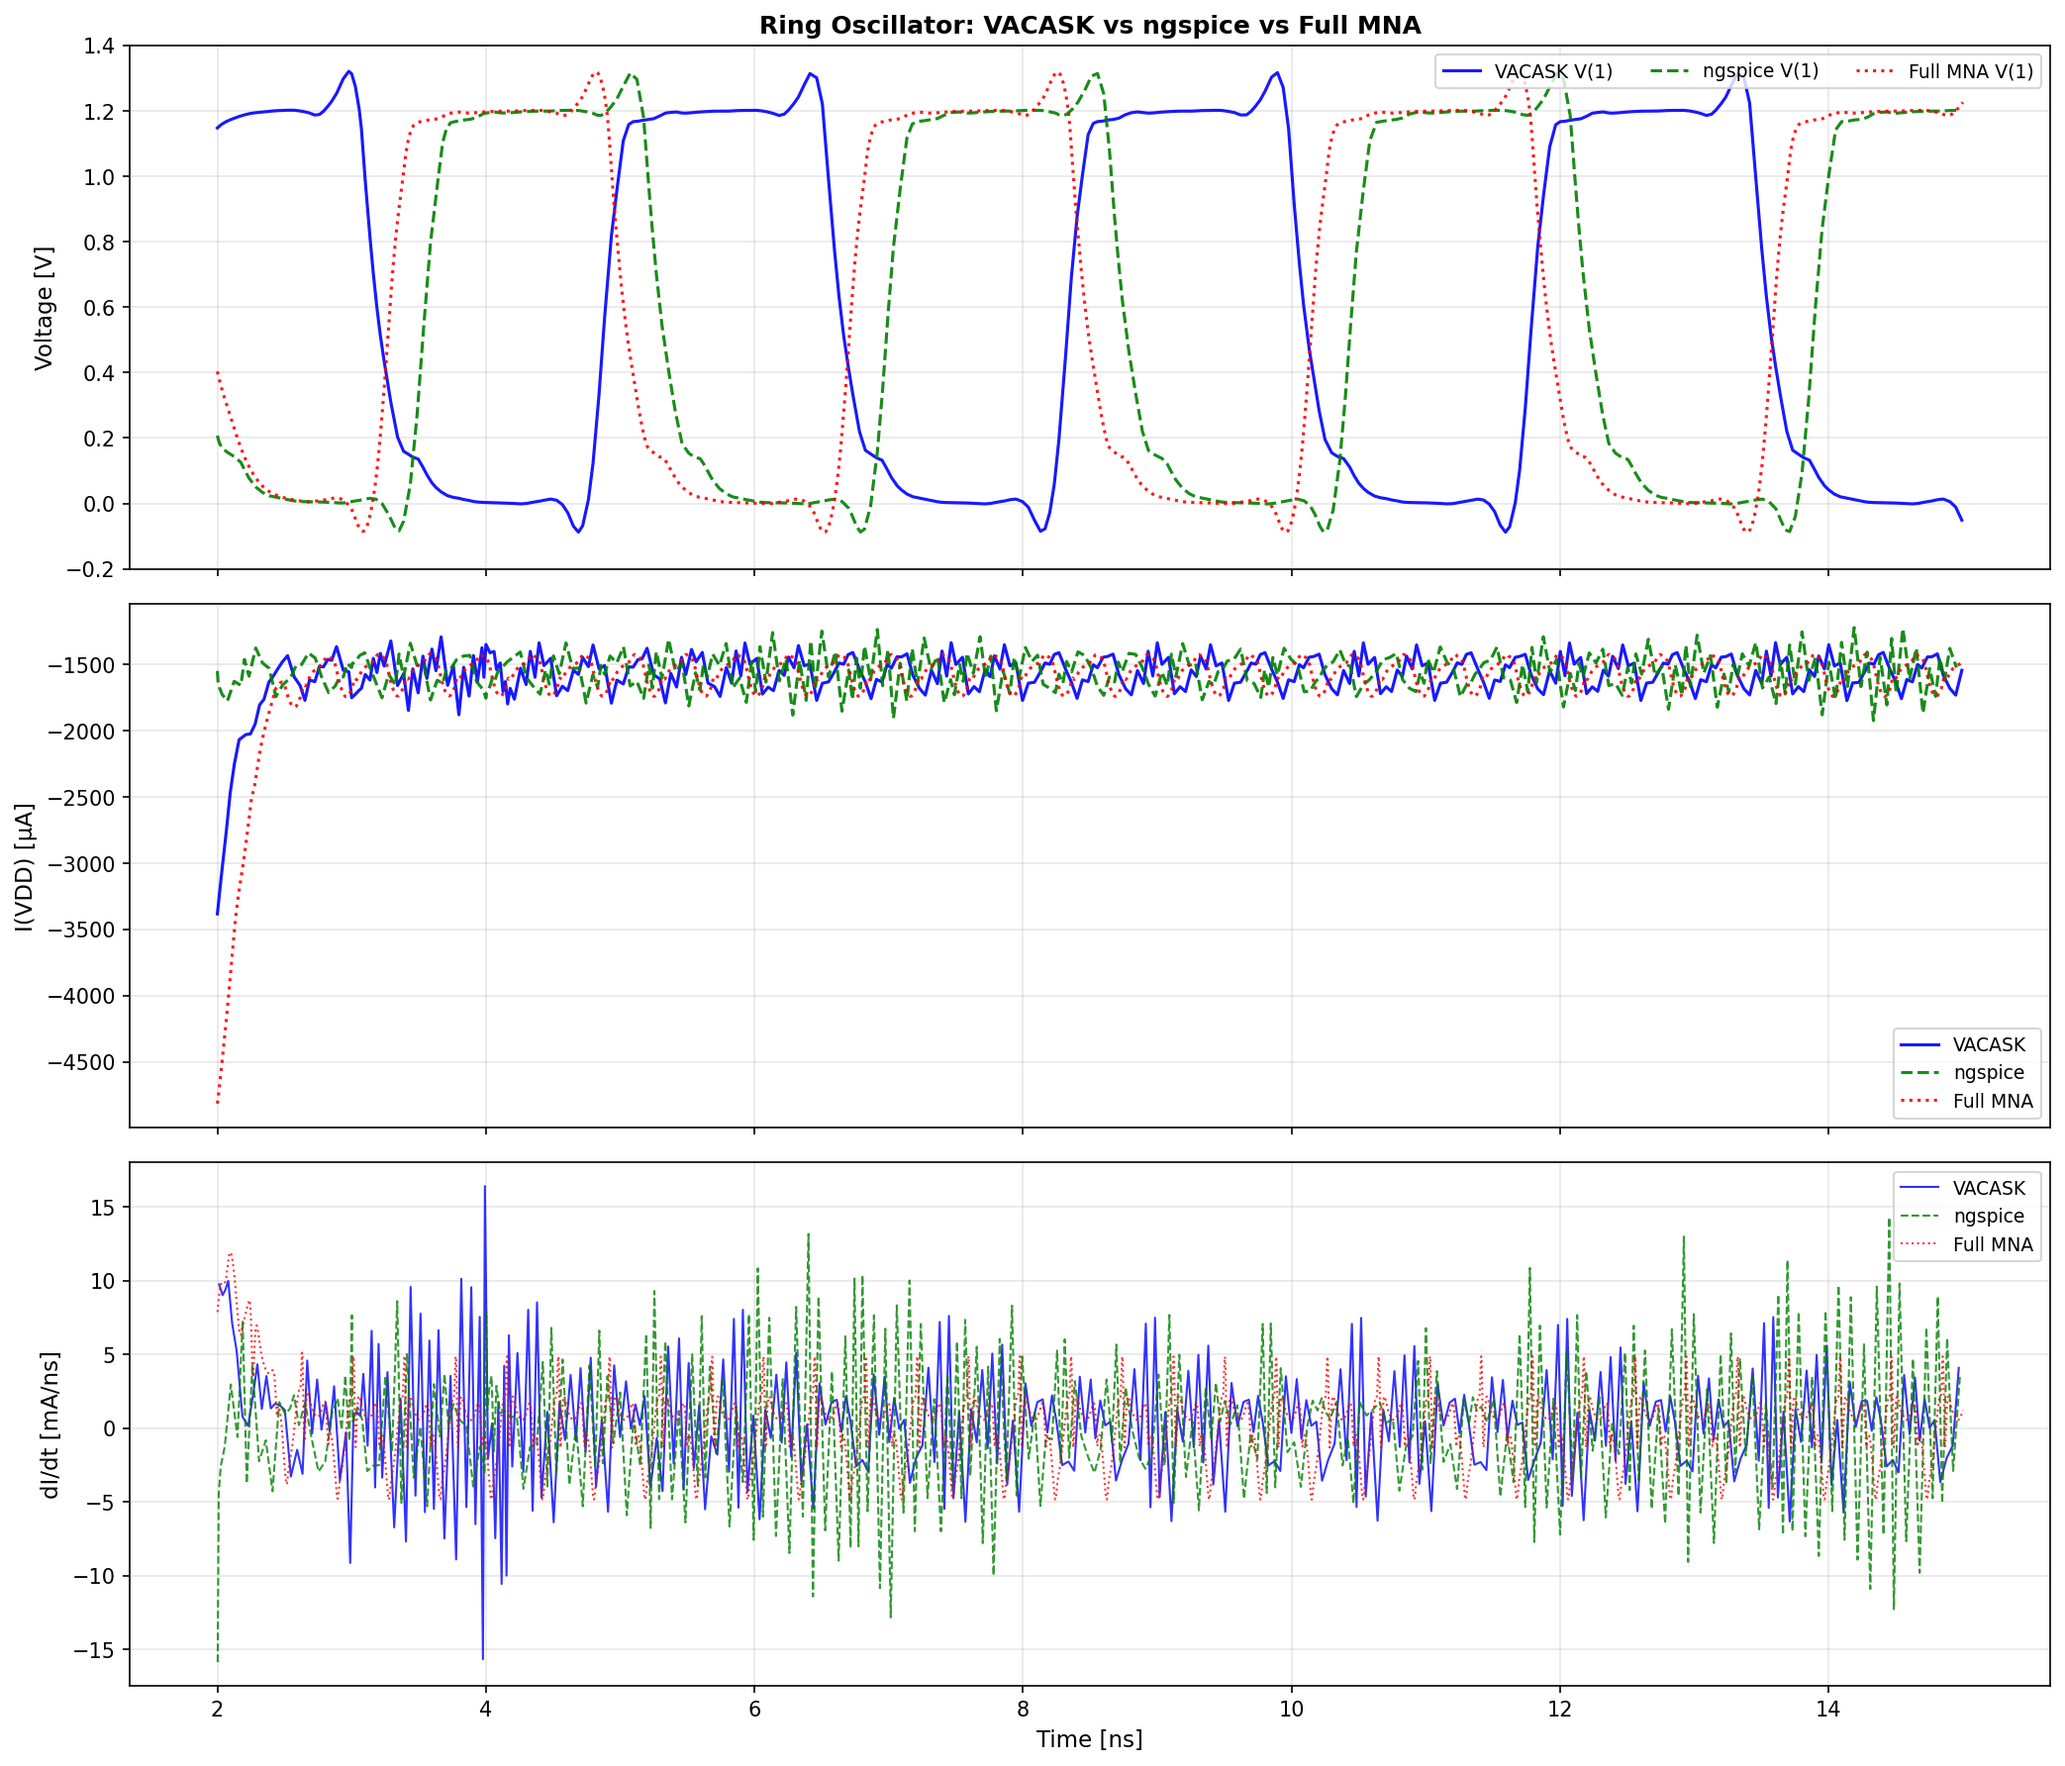
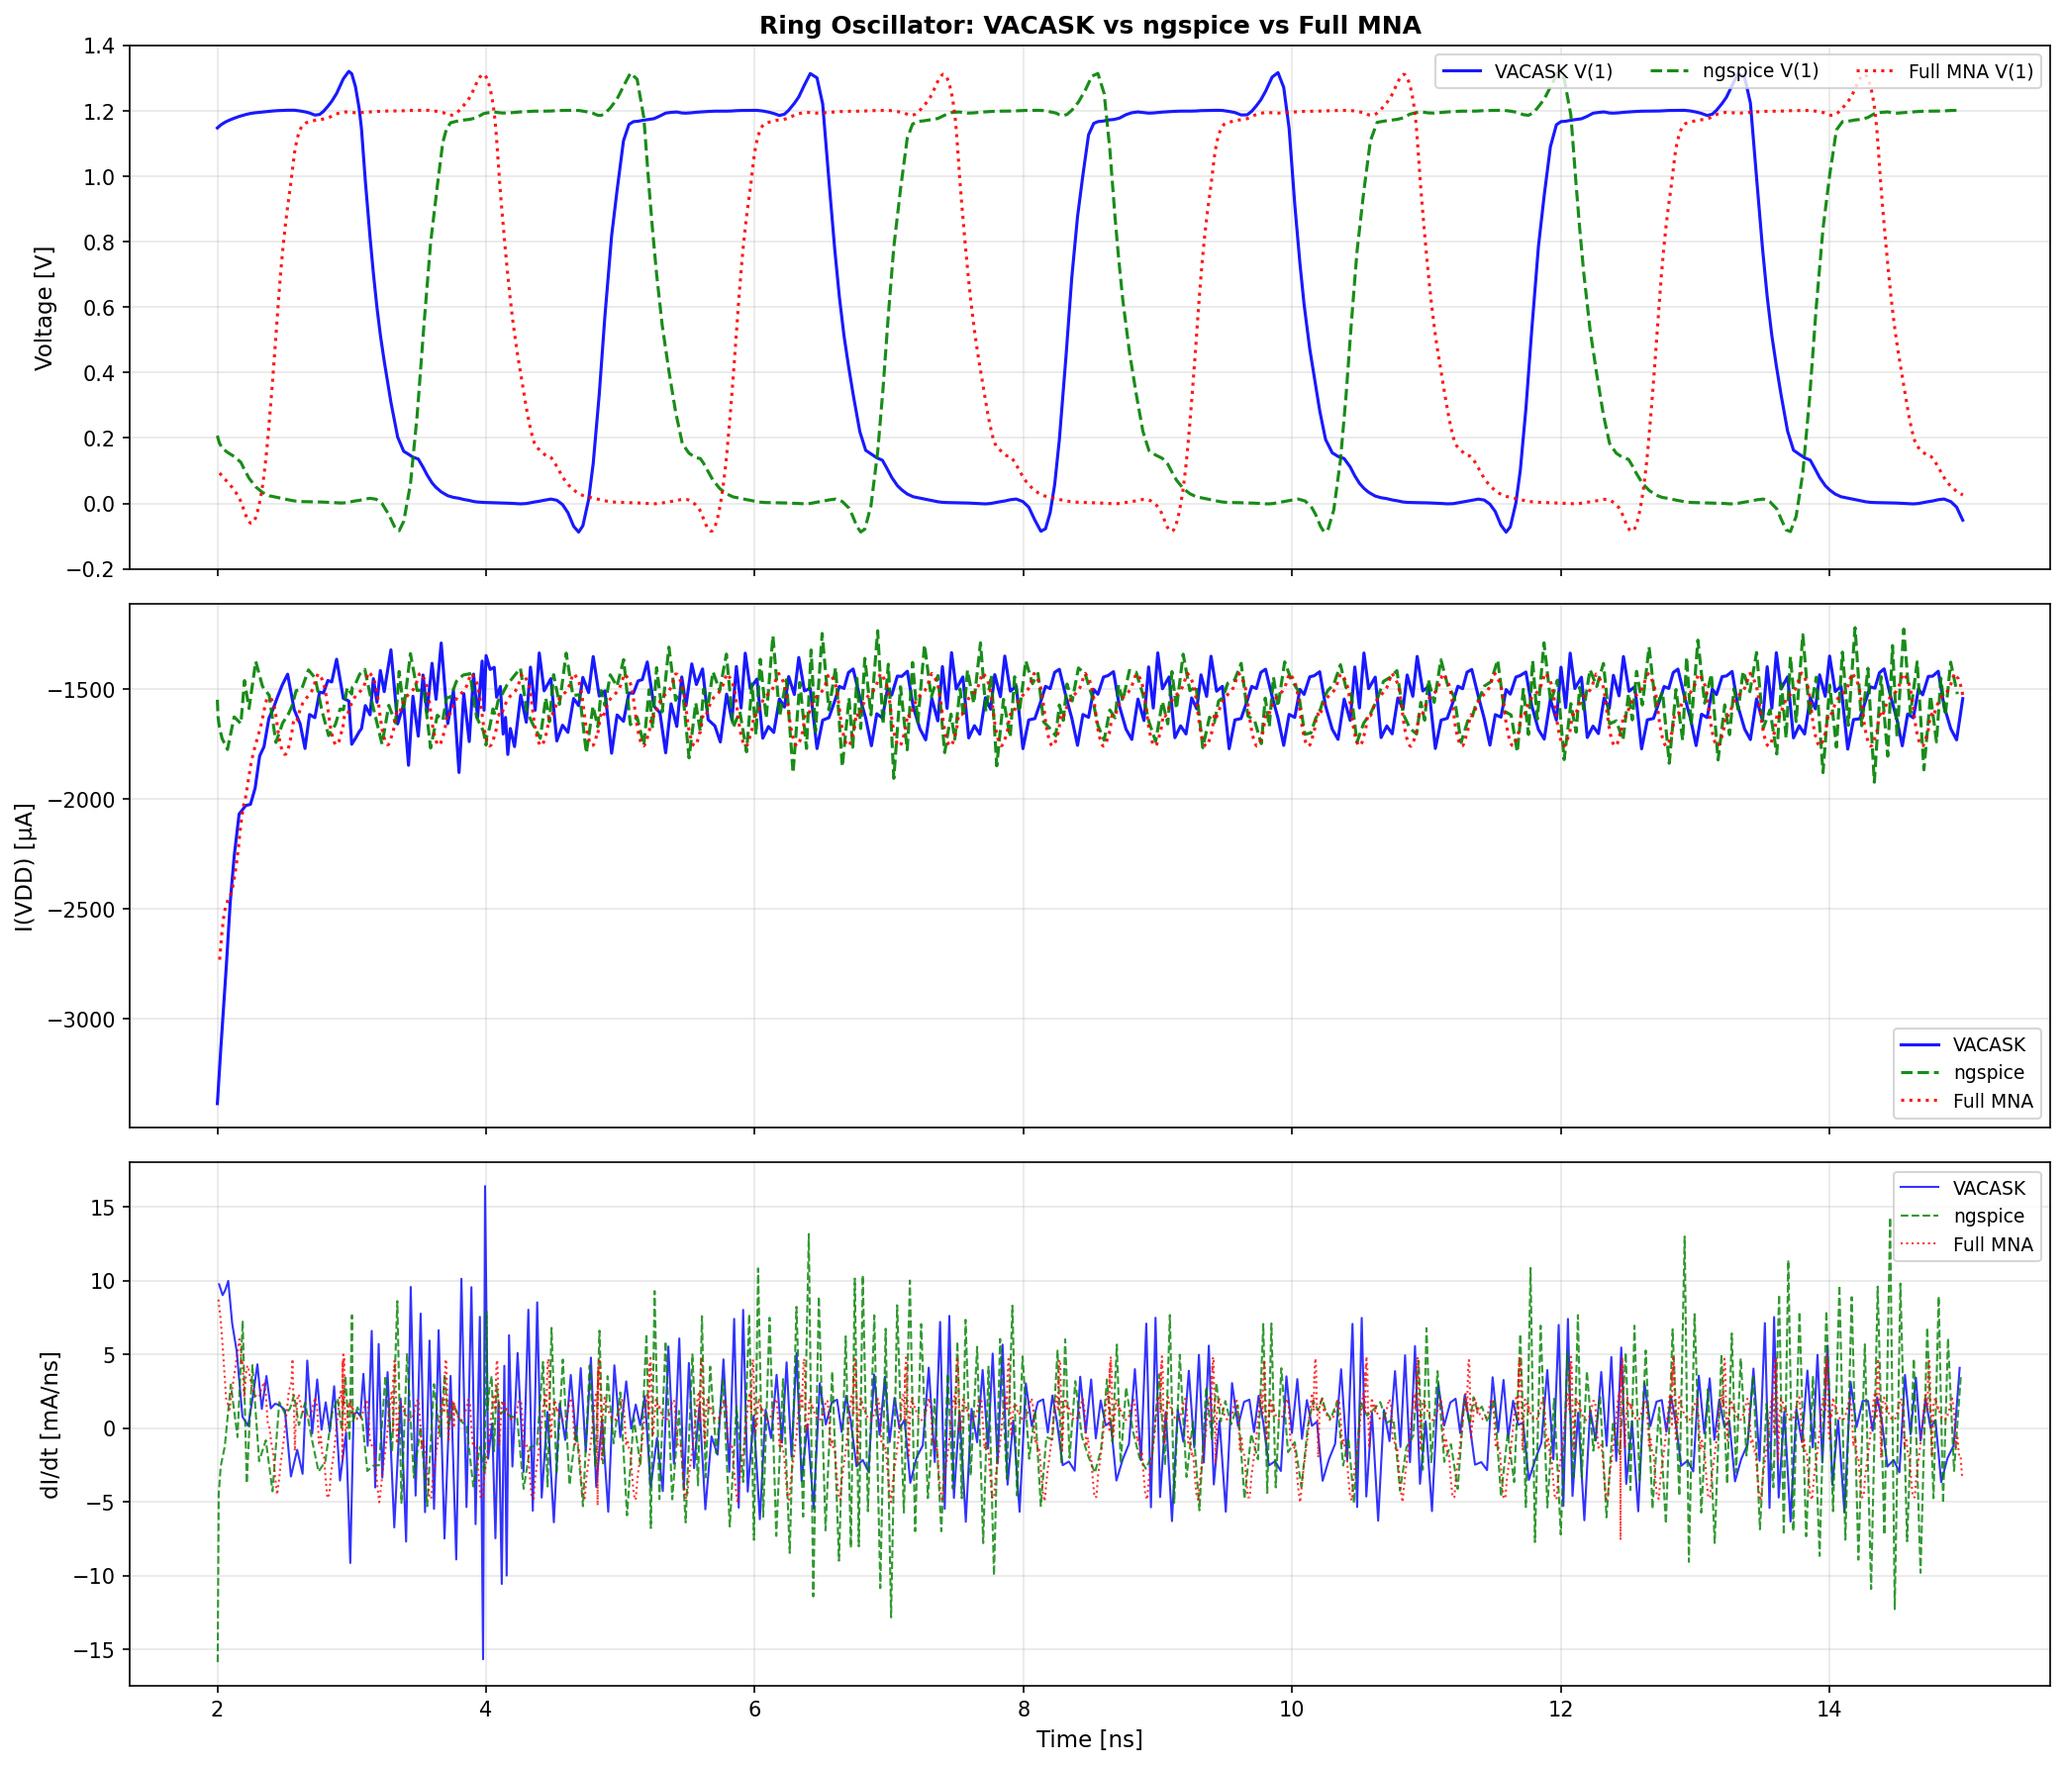
Add warmup() method and improve logging in scripts
- Add warmup() method to FullMNAStrategy for explicit JIT pre-compilation
- Add DEFAULT_MAX_STEPS constant (10000)
- Switch plot_three_way_comparison.py to use logger instead of print
- Add explicit warmup call before timed simulation
- Update ring_three_way_comparison.png with latest results

Co-developed-by: Claude Code v2.1.19 (claude-opus-4-5-20250101)

diff --git a/scripts/plot_three_way_comparison.py b/scripts/plot_three_way_comparison.py
@@ -12,6 +12,8 @@ import matplotlib.pyplot as plt
 
 from jax_spice.analysis.engine import CircuitEngine
 from jax_spice.analysis.transient import AdaptiveConfig, FullMNAStrategy
+from jax_spice._logging import logger, enable_performance_logging
+enable_performance_logging()
 
 
 def read_spice_raw(filename):
@@ -71,26 +73,31 @@ def main():
     vacask_raw = 'vendor/VACASK/tran1.raw'
     ngspice_data_file = 'vendor/VACASK/benchmark/ring/ngspice/ring_with_current.txt'
 
-    print("Loading VACASK data...")
+    logger.info("Loading VACASK data...")
     vacask = read_spice_raw(vacask_raw)
     t_vac = vacask['time']
     V1_vac = vacask['1']
     V2_vac = vacask['2']
     I_vac = vacask.get('vdd:flow(br)')
 
-    print("Loading ngspice data...")
+    logger.info("Loading ngspice data...")
     ng = read_ngspice_wrdata(ngspice_data_file)
     t_ng = ng['time']
     V1_ng = ng['1']
     V2_ng = ng['2']
     I_ng = ng['i_vdd']
 
-    print("Running Full MNA (20ns)...")
+    logger.info("Preparing Full MNA (20ns)...")
     runner = CircuitEngine(ring_sim)
     runner.parse()
     # max_dt must be less than oscillation period (~3.5ns) to capture dynamics
     config = AdaptiveConfig(max_dt=50e-12, min_dt=1e-15)
     full_mna = FullMNAStrategy(runner, use_sparse=False, config=config)
+
+    logger.info("Running warmup..") 
+    _  = full_mna.warmup(dt=1e-12)
+
+    logger.info("Running Full MNA (20ns)...")
     times_mna, voltages_mna, stats_mna = full_mna.run(t_stop=20e-9, dt=1e-12)
 
     t_mna = np.asarray(times_mna)
@@ -162,27 +169,27 @@ def main():
     plt.tight_layout()
     output_file = 'ring_three_way_comparison.png'
     plt.savefig(output_file, dpi=150, bbox_inches='tight')
-    print(f"Saved: {output_file}")
+    logger.info(f"Saved: {output_file}")
 
     # Metrics
-    print("\n" + "=" * 70)
-    print("Comparison Metrics (2-15ns window):")
-    print("=" * 70)
+    logger.info("\n" + "=" * 70)
+    logger.info("Comparison Metrics (2-15ns window):")
+    logger.info("=" * 70)
 
     t_common = np.linspace(t_start, t_end, 2000)
     I_vac_i = np.interp(t_common, t_vac, I_vac)
     I_ng_i = np.interp(t_common, t_ng, I_ng)
     I_mna_i = np.interp(t_common, t_mna, I_mna)
 
-    print(f"\nMean current:")
-    print(f"  VACASK:   {I_vac_i.mean()*1e6:.1f} µA")
-    print(f"  ngspice:  {I_ng_i.mean()*1e6:.1f} µA")
-    print(f"  Full MNA: {I_mna_i.mean()*1e6:.1f} µA")
+    logger.info(f"\nMean current:")
+    logger.info(f"  VACASK:   {I_vac_i.mean()*1e6:.1f} µA")
+    logger.info(f"  ngspice:  {I_ng_i.mean()*1e6:.1f} µA")
+    logger.info(f"  Full MNA: {I_mna_i.mean()*1e6:.1f} µA")
 
-    print(f"\nMax |dI/dt|:")
-    print(f"  VACASK:   {np.max(np.abs(dIdt_vac[mask_didt_vac]))*1e-6:.2f} mA/ns")
-    print(f"  ngspice:  {np.max(np.abs(dIdt_ng[mask_didt_ng]))*1e-6:.2f} mA/ns")
-    print(f"  Full MNA: {np.max(np.abs(dIdt_mna[mask_didt_mna]))*1e-6:.2f} mA/ns")
+    logger.info(f"\nMax |dI/dt|:")
+    logger.info(f"  VACASK:   {np.max(np.abs(dIdt_vac[mask_didt_vac]))*1e-6:.2f} mA/ns")
+    logger.info(f"  ngspice:  {np.max(np.abs(dIdt_ng[mask_didt_ng]))*1e-6:.2f} mA/ns")
+    logger.info(f"  Full MNA: {np.max(np.abs(dIdt_mna[mask_didt_mna]))*1e-6:.2f} mA/ns")
 
     return 0
 

diff --git a/jax_spice/analysis/transient/full_mna.py b/jax_spice/analysis/transient/full_mna.py
@@ -47,6 +47,9 @@ from .adaptive import AdaptiveConfig, compute_lte_timestep_jax, predict_voltage_
 from .base import TransientSetup, TransientStrategy
 
 
+DEFAULT_MAX_STEPS = 10000
+
+
 class _FullMNABase(TransientStrategy):
     """Base class for full MNA strategies.
 
@@ -257,8 +260,34 @@ class _FullMNABase(TransientStrategy):
 
         return V
 
+    def warmup(self, dt: float = 1e-12, max_steps: int = DEFAULT_MAX_STEPS) -> float:
+        """Pre-compile the JIT function by running a minimal simulation.
+
+        This triggers JIT compilation so subsequent run() calls are fast.
+
+        Args:
+            dt: Timestep to use (should match expected run() calls)
+            max_steps: Max steps to compile for (default: DEFAULT_MAX_STEPS).
+                       Use the same value in subsequent run() calls for cache hits.
+
+        Returns:
+            Wall time for warmup (compilation + execution)
+        """
+        self.max_steps = max_steps
+
+        logger.info(f"{self.name}: Starting warmup")
+
+        t_start = time_module.perf_counter()
+        # Run tiny simulation - just enough to trigger compilation
+        self.run(t_stop=dt, dt=dt, max_steps=max_steps)
+        wall_time = time_module.perf_counter() - t_start
+
+        logger.info(f"{self.name}: Warmup complete in {wall_time:.2f}s (max_steps={max_steps})")
+        return wall_time
+
+
     def run(self, t_stop: float, dt: float,
-            max_steps: int = 10000) -> Tuple[jax.Array, Dict[str, jax.Array], Dict]:
+            max_steps: int = DEFAULT_MAX_STEPS) -> Tuple[jax.Array, Dict[str, jax.Array], Dict]:
         """Run transient analysis with full MNA.
 
         Args:
@@ -272,6 +301,7 @@ class _FullMNABase(TransientStrategy):
             - voltages: Dict mapping node name to voltage array
             - stats: Dict with statistics including 'currents' dict
         """
+
         # Ensure setup is ready
         setup = self.ensure_setup()
         nr_solve = self._ensure_full_mna_solver(setup)
